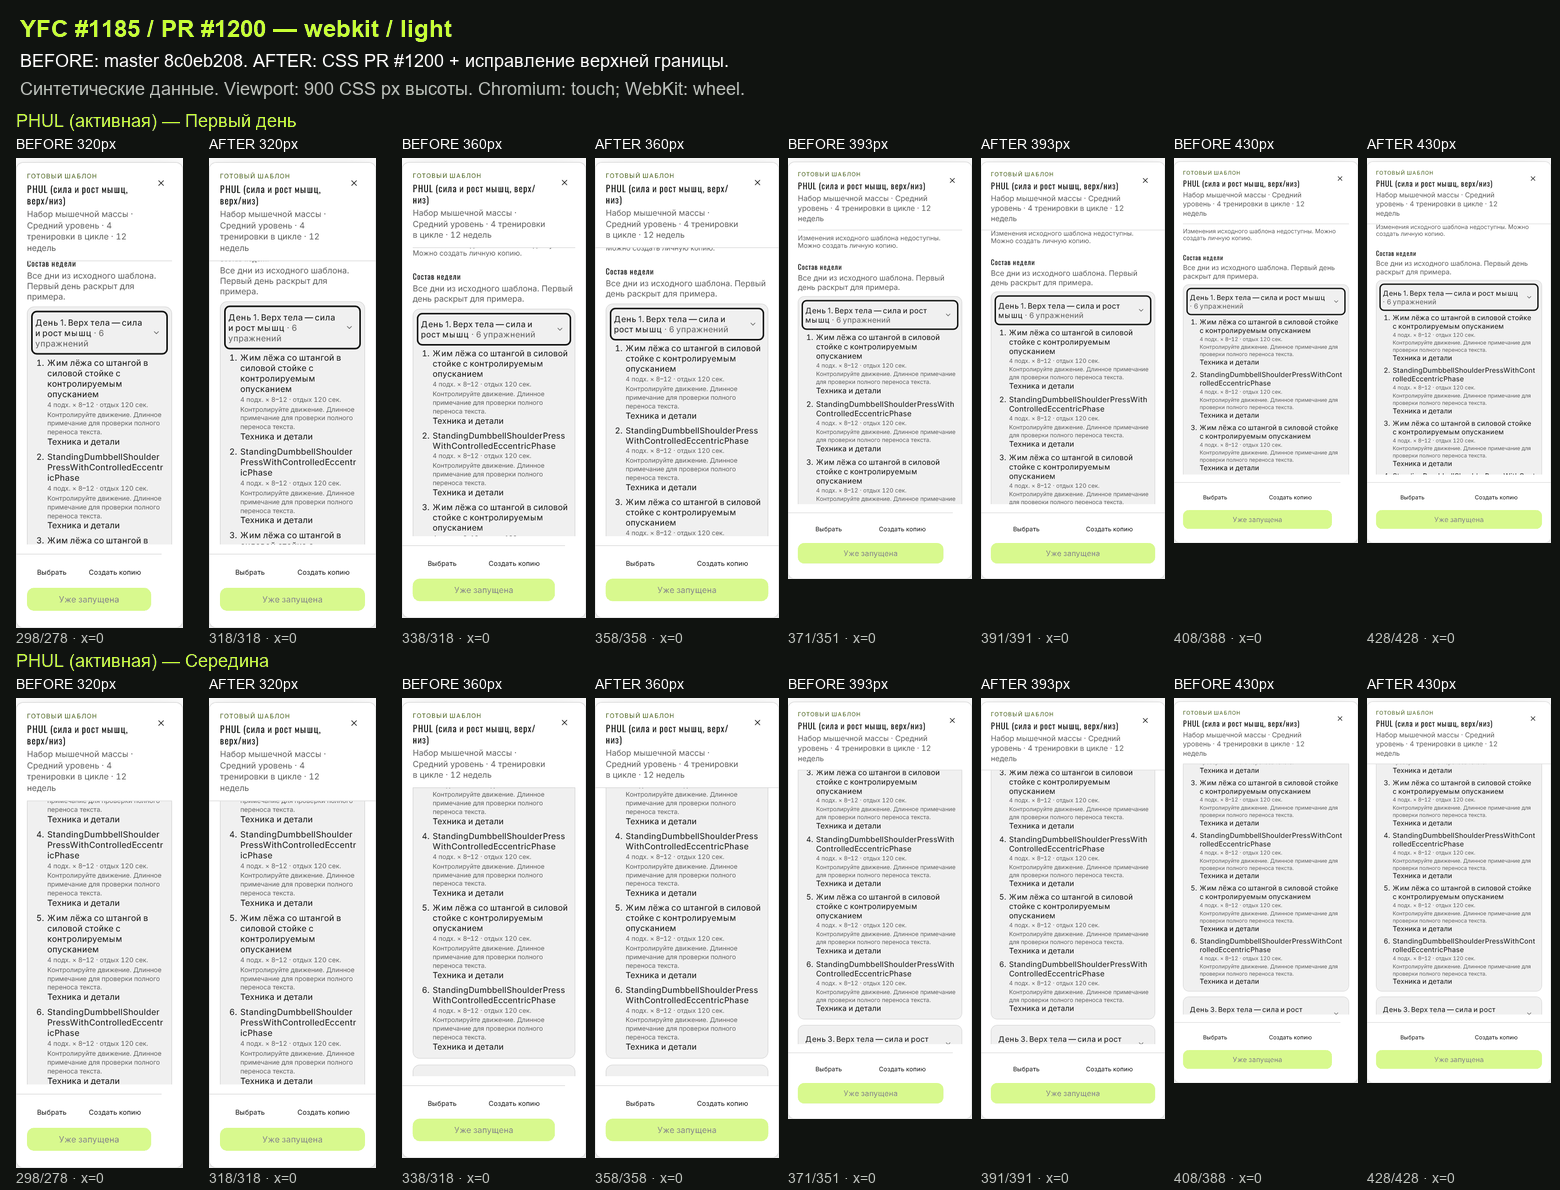
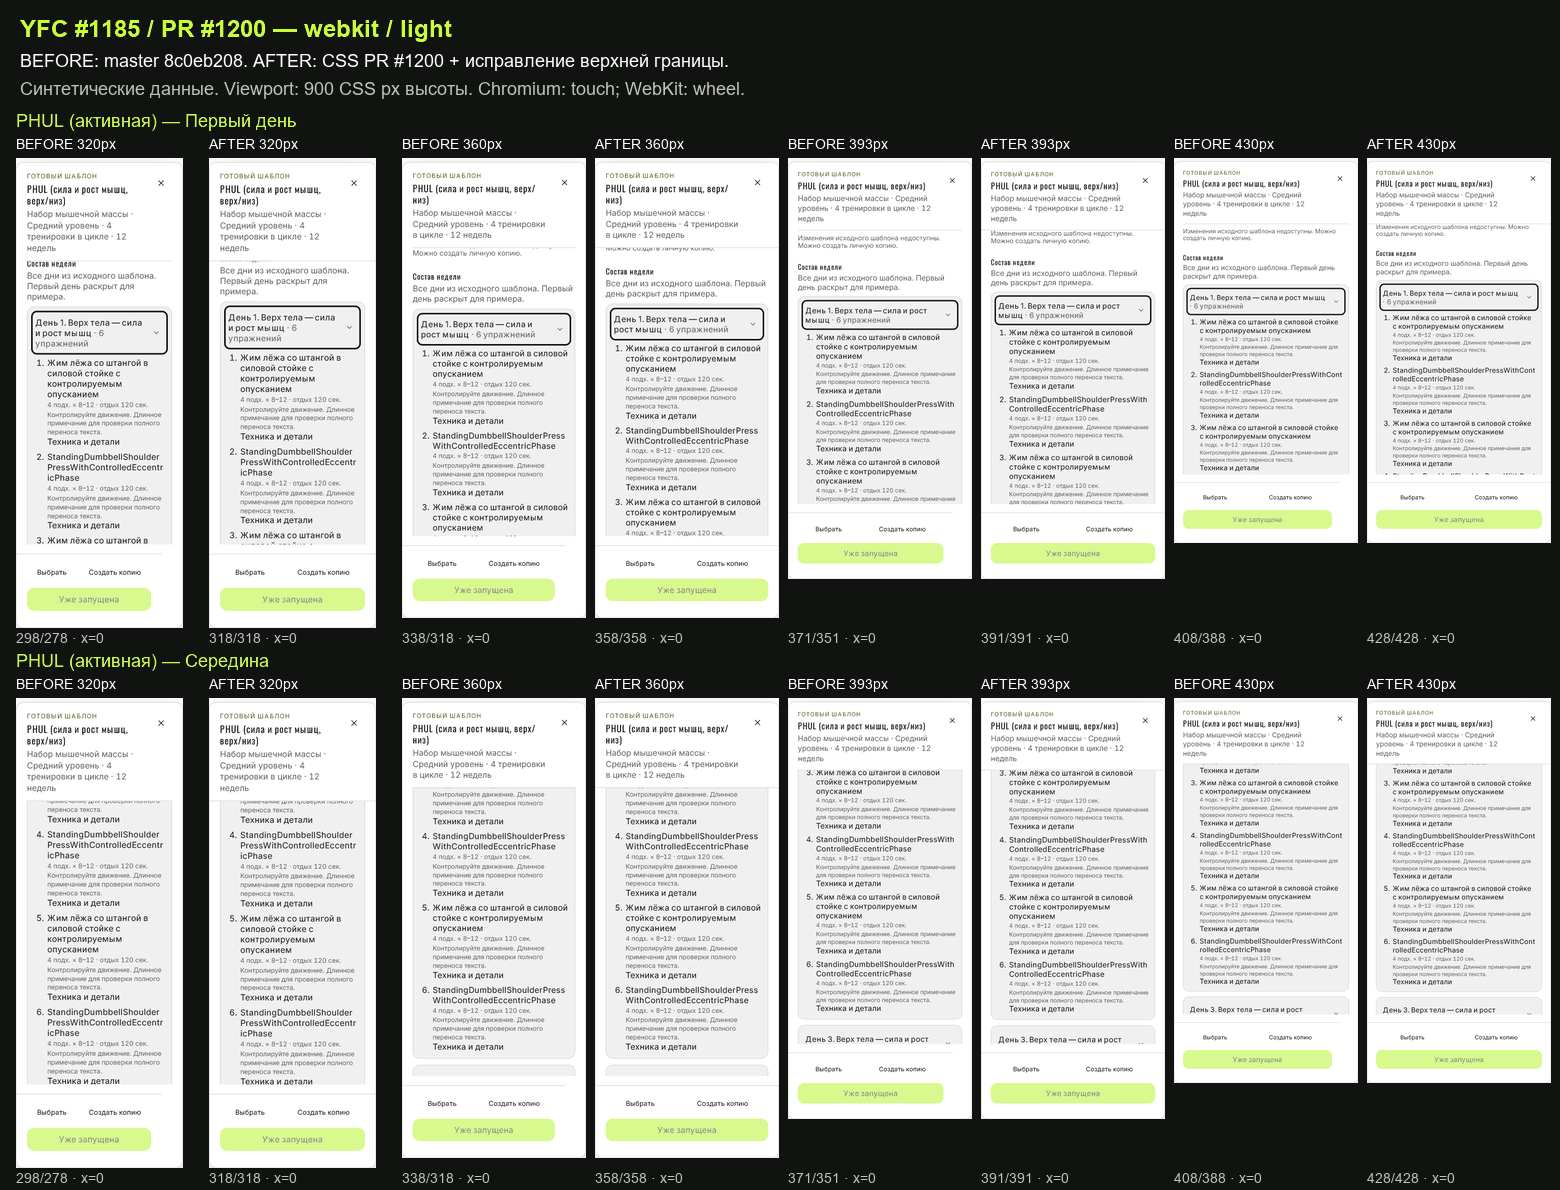
fix: remove preview source divider and stabilize scroll evidence

Changed region(s): [[0.1538, 0.684, 0.2154, 0.9017], [0.6462, 0.6529, 0.7077, 0.8395], [0.8923, 0.6529, 0.9538, 0.8395]]

diff --git a/frontend/tests/e2e/fixtures/program-preview.ts b/frontend/tests/e2e/fixtures/program-preview.ts
@@ -178,13 +178,13 @@ export async function previewGesture(page: Page, browserName: string, dx: number
     await page.mouse.move(x, y);
     await page.mouse.wheel(-dx, -dy);
   }
+  let previous: number | undefined;
   await expect
     .poll(async () => {
-      const first = await content.evaluate((node) => node.scrollTop);
-      await page.evaluate(
-        () => new Promise<void>((resolve) => requestAnimationFrame(() => resolve())),
-      );
-      return Math.abs(first - (await content.evaluate((node) => node.scrollTop)));
+      const current = await content.evaluate((node) => node.scrollTop);
+      const delta = previous === undefined ? Infinity : Math.abs(previous - current);
+      previous = current;
+      return delta;
     })
     .toBeLessThanOrEqual(1);
 }

diff --git a/frontend/src/features/programs/programPreview.css b/frontend/src/features/programs/programPreview.css
@@ -77,7 +77,6 @@
 }
 .program-preview-source {
   padding: 12px 0;
-  border-top: 1px solid var(--border);
   color: var(--muted);
   font-size: 0.82rem;
 }
